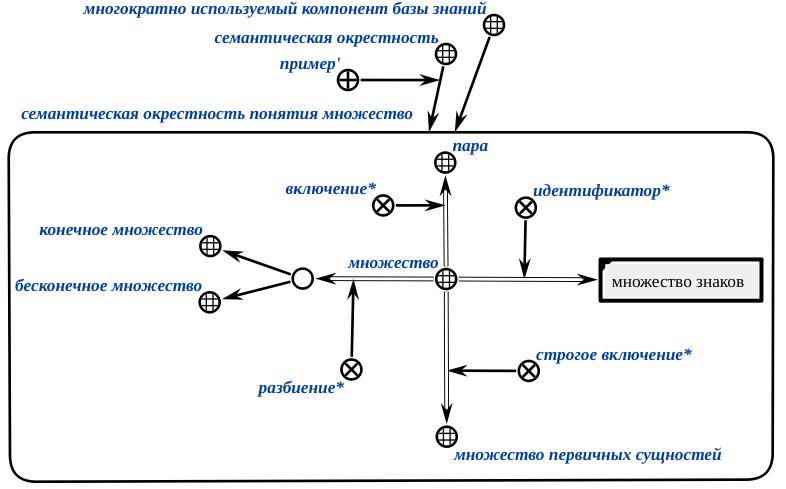
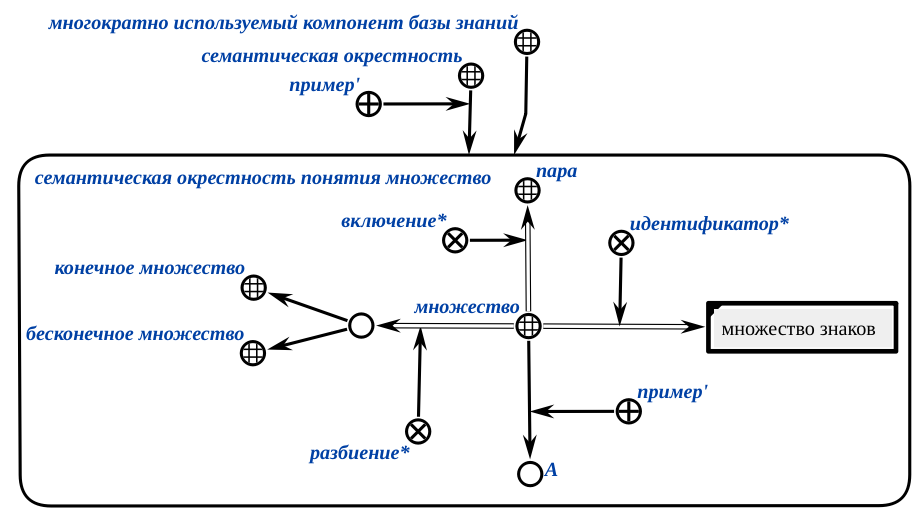
component manager specification

Changed region(s): [[0.0, 0.0, 1.0, 1.0]]

diff --git a/author/part5/chapter_library.tex b/author/part5/chapter_library.tex
@@ -1,15 +1,15 @@
 \chapter{Комплексная библиотека многократно используемых семантически совместимых компонентов ostis-систем}
-\chapauthortoc{Орлов М.К.\\Шункевич Д.В.}
+\chapauthortoc{Орлов М.~К.\\Шункевич Д.~В.\\Ковалёв М.~В.\\Садовский М.~Е.\\Загорский А.~Г.\\Банцевич К.~А.}
 \label{chapter_library}
 
 \begin{SCn}
 \begin{scnrelfromlist}{автор}
-	\scnitem{Орлов М.К.}
-	\scnitem{Шункевич Д.В.}
-	\scnitem{Ковалёв М.В.}
-	\scnitem{Садовский М.Е.}
-	\scnitem{Загорский А.Г.}
-	\scnitem{Банцевич К.А.}
+	\scnitem{Орлов М.~К.}
+	\scnitem{Шункевич Д.~В.}
+	\scnitem{Ковалёв М.~В.}
+	\scnitem{Садовский М.~Е.}
+	\scnitem{Загорский А.~Г.}
+	\scnitem{Банцевич К.~А.}
 \end{scnrelfromlist}
 \end{SCn}
 
@@ -23,6 +23,19 @@
 
 \begin{SCn}
 \scntext{аннотация}{Важнейшим этапом эволюции любой технологии является переход к компонентному проектированию на основе постоянно пополняемой библиотеки многократно используемых компонентов. Идея библиотеки компонентов не нова, но семантическая мощность \textbf{\textit{Библиотеки OSTIS}} значительно выше аналогов за счет того, что подавляющее большинство компонентов библиотеки --- компоненты базы знаний, представленные на унифицированном языке смыслового представления знаний (\textit{SC-коде}). Таким образом, в Библиотеке OSTIS обеспечивается высокий уровень семантической совместимости компонентов, что приводит к высокому уровню семантической совместимости \textit{ostis-систем}, использующих комплексную библиотеку многократно используемых семантически совместимых компонентов ostis-систем.}
+\end{SCn}
+
+\bigskip
+
+\begin{SCn}
+	\begin{scnrelfromlist}{подраздел}
+		\scnitem{\ref{ostis_library_introduction}~\nameref{ostis_library_introduction}}
+		\scnitem{\ref{ostis_library_analysis}~\nameref{ostis_library_analysis}}
+		\scnitem{\ref{ostis_library_section}~\nameref{ostis_library_section}}
+		\scnitem{\ref{reusable_component_section}~\nameref{reusable_component_section}}
+		\scnitem{\ref{ostis_library_component_manager}~\nameref{ostis_library_component_manager}}
+		\scnitem{\ref{ostis_library_conclusion}~\nameref{ostis_library_conclusion}}
+	\end{scnrelfromlist}
 \end{SCn}
 
 \bigskip
@@ -68,19 +81,6 @@
 	\scnitem{\scncite{Prakash2022}}
 	\scnitem{\scncite{Memduhoglu2018}}
 	\scnitem{\scncite{Moskalenko2016}}
-\end{scnrelfromlist}
-\end{SCn}
-
-\bigskip
-
-\begin{SCn}
-\begin{scnrelfromlist}{подраздел}
-	\scnitem{\ref{ostis_library_introduction}~\nameref{ostis_library_introduction}}
-	\scnitem{\ref{ostis_library_analysis}~\nameref{ostis_library_analysis}}
-	\scnitem{\ref{ostis_library_section}~\nameref{ostis_library_section}}
-	\scnitem{\ref{reusable_component_section}~\nameref{reusable_component_section}}
-	\scnitem{\ref{ostis_library_component_manager}~\nameref{ostis_library_component_manager}}
-	\scnitem{\ref{ostis_library_conclusion}~\nameref{ostis_library_conclusion}}
 \end{scnrelfromlist}
 \end{SCn}
 
@@ -137,6 +137,9 @@
 		\scnfileitem{Наличие онтологии компонентного проектирования интеллектуальных компьютерных систем, включающую (1) описание методов компонентного проектирования, (2) модель библиотеки многократно используемых компонентов, (3) модель спецификации многократно используемых компонентов, (4) полную классификацию многократно используемых компонентов, (5) описание средств взаимодействия разрабатываемой интеллектуальной компьютерной системы с библиотеками многократно используемых компонентов.}
 		\scnfileitem{Наличие библиотек многократно используемых компонентов интеллектуальных компьютерных систем, включающих спецификации компонентов.}
 		\scnfileitem{Наличие средств взаимодействия разрабатываемой интеллектуальной компьютерной системы с библиотеками многократно используемых компонентов для установки любых видов компонентов и управления ими в создаваемой системе.}
+		\begin{scnindent}
+			\scnnote{Под установкой компонента понимается его транспортировка в систему (копирование sc-элементов и/или скачивание файлов компонента), а также выполнение вспомогательных действий для того, чтобы компонент мог функционировать в создаваемой системе.}
+		\end{scnindent}
 	\end{scneqtoset}
 \end{scnindent}
 \end{SCn}
@@ -291,8 +294,10 @@
 
 \begin{SCn}
 	\scnheader{библиотека многократно используемых компонентов ostis-систем}
-	\scntext{сокращение}{библиотека компонентов ostis-систем}
+	\scntext{часто используемый sc-идентификатор}{библиотека компонентов ostis-систем}
+	\scntext{часто используемый sc-идентификатор}{библиотека компонентов}
 	\scnidtf{комплексная библиотека многократно используемых семантически совместимых компонентов ostis-систем}
+	\scnidtf{библиотека типовых компонентов ostis-систем}
 	\scnidtf{библиотека многократно используемых компонентов OSTIS}
 	\scnidtf{библиотека повторно используемых компонентов OSTIS}
 	\scnidtf{библиотека intelligent property компонентов ostis-систем}
@@ -301,18 +306,16 @@
 	\end{scnindent}
 	\scnhaselementrole{типичный пример}{\scnkeyword{Библиотека OSTIS}}
 	\begin{scnindent}
+		\scnidtf{Распределенная библиотека типовых (многократно используемых) компонентов ostis-систем}
 		\scnidtf{Библиотека многократно используемых компонентов ostis-систем в составе Метасистемы OSTIS}
 		\scnidtf{Библиотека Метасистемы OSTIS}
 	\end{scnindent}
 	\begin{scnreltoset}{объединение}
-		\scnitem{библиотека многократно используемых компонентов баз знаний}
-		\scnitem{библиотека многократно используемых компонентов решателей задач}
-		\scnitem{библиотека многократно используемых компонентов пользовательских интерфейсов}
+		\scnitem{библиотека многократно используемых компонентов баз знаний (см. Параграф \ref{sc_kb_design_components}~\nameref{sc_kb_design_components})}
+		\scnitem{библиотека многократно используемых компонентов решателей задач (см. Параграф \ref{ps_components_section}~\nameref{ps_components_section})}
+		\scnitem{библиотека многократно используемых компонентов пользовательских интерфейсов (см. Параграф \ref{sec_reusable_UI_components}~\nameref{sec_reusable_UI_components})}
 		\scnitem{библиотека встраиваемых ostis-систем}
-		\scnitem{библиотека шаблонов типовых компонентов ostis-систем}
 		\scnitem{библиотека ostis-платформ}
-		\scnitem{библиотека реализаций sc-памяти}
-		\scnitem{библиотека стратегий решения задач}
 	\end{scnreltoset}
 \end{SCn}
 
@@ -423,6 +426,7 @@
 
 \begin{SCn}
 	\scnheader{многократно используемый компонент ostis-систем}
+	\scnidtf{типовой компонент ostis-систем}
 	\scnidtf{повторно используемый компонент ostis-систем}
 	\scnidtf{многократно используемый компонент OSTIS}
 	\scnidtf{ip-компонент ostis-систем}
@@ -482,12 +486,21 @@
 \end{scnrelfromset}
 \end{SCn}	
 
+На рисунке \nameref{fig:set_neighbourhood} приведён фрагмент многократно используемого компонента базы знаний на примере семантической окрестности понятия \textit{множество}.
+
 \begin{figure}[H]
 	\includegraphics[scale=0.6]{author/part5/figures/set_neighbourhood.png}
 	\caption{Пример многократно используемого компонента базы знаний}
 	\label{fig:set_neighbourhood}
 \end{figure}
 
+На рисунке \nameref{fig:relation_template} приведён фрагмент шаблона многократно используемого компонента ostis-систем на примере описания семантической окрестности отношения.
+
+\begin{figure}[H]
+	\includegraphics[scale=0.6]{author/part5/figures/relation_template.png}
+	\caption{Пример шаблона семантической окрестности отношения}
+	\label{fig:relation_template}
+\end{figure}
 
 Для компонентов баз знаний важнейшим признаком классификации многократно используемых компонентов является \textbf{\textit{вид используемых знаний}}. Для компонентов решателя задач --- \textbf{\textit{модель решения задач}}. Для компонентов интерфейса --- \textbf{\textit{вид интерфейса}} в соответствии с классификацией компонентов пользовательских интерфейсов.
 
@@ -621,7 +634,7 @@
 Каждый \textit{многократно используемый компонент ostis-систем} должен быть специфицирован в рамках библиотеки (см. \scncite{Davydenko2013}). Данные спецификации включают в себя основные знания о компоненте, которые позволяют обеспечить построение полной иерархии компонентов и их зависимостей, а также обеспечивают \underline{беспрепятственную} интеграцию компонентов в дочерние ostis-системы. Для спецификации компонента используются, как отношения, так и классы компонента.
 
 % Параметры формализовать
-Чтобы многократно используемый компонент мог быть принят в библиотеку, нужно специфицировать его, используя отношения из класса \textit{необходимое для установки отношение, специфицирующее многократно используемый компонент ostis-систем}. В то же время отношения класса \textit{необязательное для установки отношение, специфицирующее многократно используемый компонент ostis-систем} помогают лучше понять суть компонента, упрощает поиск, но не является обязательным для того, чтобы компонент мог быть установлен в ostis-систему. Спецификация многократно используемого компонента ostis-систем также включает класс (тип) компонента. Указание класса \textit{многократно используемый компонент ostis-систем} является обязательным. Сам многократно используемый компонент в рамках спецификации является \textit{ключевым sc-элементом}, а также может иметь множество своих ключевых sc-элементов. Для уточнения типа компонента могут использоваться другие классы, например дата публикации первой и последней версии компонента, качественно-количественные характеристики, какие как уровень семантической совместимости компонентов, сложность реализации компонента, уровень производительности компонента (для программ можно использовать O-нотацию), количество sc-элементов, входящих в состав многократно используемого компонента, количество ключевых узлов компонента, рейтинг компонента в рамках Экосистемы OSTIS, количество скачиваний компонента и другие (см. \scncite{Davydenko2013}). Параметр \textit{лицензия многократно используемого компонента} используется для обозначения условий использования и распространения компонента. По умолчанию лицензия компонента открытая, если не указано иное.
+Чтобы многократно используемый компонент мог быть принят в библиотеку, нужно специфицировать его, используя отношения класса \textit{необходимое для установки отношение, специфицирующее многократно используемый компонент ostis-систем}. Здесь описана спецификация, общая для любых типов компонентов, однако в зависимости от типа компонента, спецификация может расширяться (см. Параграфы \ref{sc_kb_design_components}~\nameref{sc_kb_design_components}, \ref{ps_components_section}~\nameref{ps_components_section}, \ref{sec_reusable_UI_components}~\nameref{sec_reusable_UI_components}). Отношения класса \textit{необязательное для установки отношение, специфицирующее многократно используемый компонент ostis-систем} помогают лучше понять суть компонента, упрощает поиск, но не является обязательным для того, чтобы компонент мог быть установлен в ostis-систему. Спецификация многократно используемого компонента ostis-систем также включает класс (тип) компонента. Указание класса \textit{многократно используемый компонент ostis-систем} является обязательным. Сам многократно используемый компонент в рамках спецификации является \textit{ключевым sc-элементом}, а также может иметь множество своих ключевых sc-элементов. Для уточнения типа компонента могут использоваться другие классы, например дата публикации первой и последней версии компонента, качественно-количественные характеристики, какие как уровень семантической совместимости компонентов, сложность реализации компонента, уровень производительности компонента (для программ можно использовать O-нотацию), количество sc-элементов, входящих в состав многократно используемого компонента, количество ключевых узлов компонента, рейтинг компонента в рамках Экосистемы OSTIS, количество скачиваний компонента и другие (см. \scncite{Davydenko2013}). Параметр \textit{лицензия многократно используемого компонента} используется для обозначения условий использования и распространения компонента. По умолчанию лицензия компонента открытая, если не указано иное.
 
 \begin{SCn}
 \scnheader{отношение, специфицирующее многократно используемый компонент ostis-систем\scnsupergroupsign}
@@ -683,7 +696,7 @@
 
 Спецификация неатомарного многократно используемого компонента должна содержать информацию о том, из каких компонентов он состоит, используя отношение \textit{декомпозиция*}. При этом sc-структура, обозначающая неатомарный компонент не обязана содержать все sc-элементы компонентов, на которые она декомпозируется, достаточно, чтобы неатомарному компоненту принадлежали знаки всех тех компонентов, из которых он состоит (должно быть полное перечисление составных компонентов).
 
-На рисунке \nameref{fig:component_optional_specification_example} изображена необязательная часть спецификации, необходимой для установки sc-агента поиска кратчайшего пути в графе. Полная спецификация компонента является результатом объединения обязательной и необязательной частей.
+На рисунке \nameref{fig:component_optional_specification_example} изображена необязательная часть спецификации, необходимой для установки sc-агента поиска кратчайшего пути в графе. Полная спецификация компонента является результатом объединения обязательной и необязательной частей. Другие примеры спецификаций многократно используемых компонентов ostis-систем описаны в Параграфе \ref{gis_components}~\nameref{gis_components}.
 
 \begin{figure}[H]
 	\includegraphics[scale=1.0]{author/part5/figures/component_optional_specification_example.png}
@@ -706,13 +719,14 @@
 
 \begin{SCn}
 \begin{scnrelfromlist}{ключевое знание}
-	\scnitem{Функциональные возможности менеджера многократно используемых компонентов ostis-систем}
+	\scnitem{минимальные функциональные возможности менеджера компонентов}
+	\scnitem{расширенные функциональные возможности менеджера компонентов}
 \end{scnrelfromlist}
 \end{SCn}
 
 \bigskip
 
-менеджер многократно используемых компонентов ostis-систем --- подсистема ostis-системы, с помощью которой проиходит взаимодействие с библиотекой компонентов ostis-систем.
+\textit{менеджер многократно используемых компонентов ostis-систем} --- подсистема ostis-системы, с помощью которой происходит взаимодействие с библиотекой компонентов ostis-систем.
 
 \begin{SCn}
 \scnheader{менеджер многократно используемых компонентов ostis-систем}
@@ -725,38 +739,62 @@
 \end{scnrelfromset}
 \end{SCn}
 
-База знаний менеджера компонентов содержит все те знания, которые необходимы для установки многократно используемого компонента в дочернюю ostis-систему. К таким знаниям относятся знания о спецификации многократно используемых компонентов, методы установки компонентов, знание о  библиотеках ostis-систем, с которыми происходит взаимодействие. Решатель задач менеджера компонентов взаимодействует с библиотекой ostis-систем и позволяет установить и интегрировать многократно используемые компоненты в дочернюю ostis-систему, также выполнять поиск, обновление, публикацию, удаление компонентов. Интерфейс менеджера многократно используемых компонентов обеспечивает удобное для пользователя и других систем использование менеджера компонентов.
+База знаний менеджера компонентов содержит все те знания, которые необходимы для установки многократно используемого компонента в дочернюю ostis-систему. К таким знаниям относятся знания о спецификации многократно используемых компонентов, методы установки компонентов, знание о  библиотеках ostis-систем, с которыми происходит взаимодействие. Решатель задач менеджера компонентов взаимодействует с библиотекой ostis-систем и позволяет установить и интегрировать многократно используемые компоненты в дочернюю ostis-систему, также выполнять поиск, обновление, публикацию, удаление компонентов и другие операции с ними. Интерфейс менеджера многократно используемых компонентов обеспечивает удобное для пользователя и других систем использование менеджера компонентов.
 
-Функциональные возможности менеджера компонентов ostis-систем следующие:
-\begin{textitemize}
-	\item \textbf{Поиск многократно используемых компонентов ostis-систем}. Множество возможных критериев поиска соответствует спецификации многократно используемых компонентов. Такими критериями могут быть классы компонента, его авторы, идентификатор, фрагмент примечания, назначение, принадлежность какой-либо предметной области, вид знаний компонента и другие.
-	\item \textbf{Установка многократно используемого компонента ostis-систем}. Установка многократно используемого компонента происходит вне зависимости от типологии, способа установки и местоположения компонента. Необходимое условие для возможности установки многократно используемого компонента --- наличие \textbf{\textit{спецификации многократно используемого компонента ostis-систем}}. Перед установкой многократно используемого компонента в дочернюю систему необходимо разрешить все зависимости путём установки зависимых компонентов. После успешной установки компонента, в базе знаний дочерней системы генерируется информационная конструкция, обозначающая факт установки компонента в систему с помощью отношения \textit{установленные компоненты*}. После установки компонента в ostis-систему могут возникнуть противоречия в базе знаний, которые  устраняются с помощью средств обнаружения и анализа ошибок и противоречий в базе знаний ostis-системы.
-	\item \textbf{Спецификация многократно используемого компонента ostis-систем}. Менеджер компонентов позволяет специфицировать компоненты, входящие в состав библиотеки ostis-систем, а также специфицировать новые создаваемые компоненты, которые будут публиковаться в библиотеку ostis-систем. При этом спецификация может происходить как автоматически, так вручную. Например, менеджер компонентов может обновить спецификацию используемого компонента в соответствии с тем, в какие новые ostis-системы его установили, обновление спецификации авторства компонента при его редактировании в библиотеке ostis-систем, спецификация ошибок, выявленных в процессе эксплуатации компонента и так далее.
-	\item \textbf{Формирование многократно используемого компонента ostis-систем по шаблону с заданными параметрами}.
-	\item \textbf{Публикация многократно используемого компонента ostis-систем в библиотеку ostis-систем}. При публикации компонента в библиотеку ostis-систем происходит верификация на основе спецификации компонента. Также существует возможность обновления версии опубликованного компонента сообществом его разработчиков.
-	\item \textbf{Обновление установленного многократно используемого компонента ostis-систем}
-	\item \textbf{Удаление установленного многократно используемого компонента}. Как и в случае установки после удаления многократно используемого компонента из ostis-системы в базе знаний системы устанавливается факт удаления компонента. Эта информация является важной частью \underline{истории эксплуатации} ostis-системы.
-	\item \textbf{Редактирование многократно используемого компонента в библиотеке ostis-систем}.
-	\item \textbf{Добавление и удаление отслеживаемых ostis-системой библиотек}. Менеджер компонентов содержит информацию о множестве источников для установки компонентов, перечень которых можно дополнять вручную. По умолчанию менеджер компонентов отслеживает Библиотеку Метасистемы OSTIS, однако можно создавать и добавлять дополнительные библиотеки ostis-систем.
-	\item \textbf{Сравнение} многократно используемых компонентов ostis-систем.
-\end{textitemize}
+\textit{менеджер многократно используемых компонентов ostis-систем} как минимум должен обеспечивать следующие функциональные возможности:
 
-% Включение компонента в дочернюю sc-систему в самом общем случае состоит из следующих этапов:
-% - поиск подходящего компонента (или набора компонентов) во множестве библиотек, входящих в состав IMS. Для облегчения задачи поиска могут быть реализованы специализированные поисковые агенты. В любом случае, поиск и выделение компонента будет осуществляться на основе спецификации компонента. Данный этап с точки зрения пользователя не зависит от типа компонента и особенностей его реализации. Конкретные действия на следующих этапах сильно зависят от реализации и типа компонента и будут более детально описаны при рассмотрении подклассов многократно используемых компонентов OSTIS;
+\begin{SCn}
+\scnheader{менеджер многократно используемых компонентов ostis-систем}
+\scnrelfrom{минимальные функциональные возможности}{минимальные функциональные возможности менеджера компонентов}
+\begin{scnindent}
+\begin{scneqtoset}
+	\scnfileitem{\textbf{Поиск многократно используемых компонентов ostis-систем.} Множество возможных критериев поиска соответствует спецификации многократно используемых компонентов. Такими критериями могут быть классы компонента, его авторы, идентификатор, фрагмент примечания, назначение, принадлежность какой-либо предметной области, вид знаний компонента и другие.}
+	\scnfileitem{\textbf{Установка многократно используемого компонента ostis-систем.} Установка многократно используемого компонента происходит вне зависимости от типологии, способа установки и местоположения компонента. Необходимое условие для возможности установки многократно используемого компонента --- наличие \textbf{\textit{спецификации многократно используемого компонента ostis-систем}}. Перед установкой многократно используемого компонента в дочернюю систему необходимо установить все зависимые компоненты. После успешной установки компонента, в базе знаний дочерней системы генерируется информационная конструкция, обозначающая факт установки компонента в систему с помощью отношения \textit{установленные компоненты*}.}
+	\scnfileitem{\textbf{Добавление и удаление отслеживаемых менеджером компонентов библиотек.} Менеджер компонентов содержит информацию о множестве источников для установки компонентов, перечень которых можно дополнять. По умолчанию менеджер компонентов отслеживает Библиотеку Метасистемы OSTIS, однако можно создавать и добавлять дополнительные библиотеки ostis-систем.}
+\end{scneqtoset}
+\end{scnindent}
+\end{SCn}
 
-% - выделение компонента (или набора компонентов) в рамках IMS в виде, удобном для транспортировки в дочернюю sc-систему (при необходимости – создание физической копии компонента);
+Используя минимальные функциональные возможности менеджер компонентов может установить компоненты, которые будут расширять его же функционал. Компоненты, реализующие расширенный функционал менеджера компонентов являются частью \textit{Библиотеки OSTIS}. К расширенному функционалу относится:
 
-%- транспортировка выделенного компонента в дочернюю sc-систему;
+\begin{SCn}
+\scnheader{менеджер многократно используемых компонентов ostis-систем}
+\scnrelfrom{расширенные функциональные возможности}{расширенные функциональные возможности менеджера компонентов}
+\begin{scnindent}
+	\begin{scneqtoset}
+		\scnfileitem{\textbf{Спецификация} многократно используемого компонента ostis-систем. Менеджер компонентов позволяет специфицировать компоненты, входящие в состав библиотеки ostis-систем, а также специфицировать новые создаваемые компоненты, которые будут публиковаться в библиотеку ostis-систем. При этом спецификация может происходить как автоматически, так вручную. Например, менеджер компонентов может обновить спецификацию используемого компонента в соответствии с тем, в какие новые ostis-системы его установили, обновление спецификации авторства компонента при его редактировании в библиотеке ostis-систем, спецификация ошибок, выявленных в процессе эксплуатации компонента и так далее.}
+		\scnfileitem{\textbf{Формирование} многократно используемого компонента ostis-систем по шаблону с заданными параметрами. При установке шаблона многократно используемого компонента ostis-систем менеджер компонентов позволяет сформировать по нему конкретный компонент. Для этого пользователю предлагается определить значения всех sc-переменных в шаблоне для формирования конкретного компонента из некоторой предметной области. Например, для формирования многократно используемого компонента базы знаний, представляющего собой семантическую окрестность некоторого отношения (рисунок \nameref{fig:relation_template}), нужно определить значения всех переменных, кроме переменной, являющейся ключевым sc-элементом данной структуры.}
+		\scnfileitem{\textbf{Публикация} многократно используемого компонента ostis-систем в библиотеку ostis-систем. При публикации компонента в библиотеку ostis-систем происходит верификация на основе спецификации компонента. Публикация компонента может сопровождаться сборкой неатомарного компонента из существующих атомарных. Также существует возможность обновления версии опубликованного компонента сообществом его разработчиков.}
+		\scnfileitem{\textbf{Обновление} установленного многократно используемого компонента ostis-систем.}
+		\scnfileitem{\textbf{Удаление} установленного многократно используемого компонента. Как и в случае установки после удаления многократно используемого компонента из ostis-системы в базе знаний системы устанавливается факт удаления компонента. Эта информация является важной частью \underline{истории эксплуатации} ostis-системы.}
+		\scnfileitem{\textbf{Редактирование} многократно используемого компонента в библиотеке ostis-систем.}
+		\scnfileitem{\textbf{Сравнение} многократно используемых компонентов ostis-систем.}
+	\end{scneqtoset}
+\end{scnindent}
+\end{SCn}
 
-% - интеграция компонента в дочернюю scсистему. Если в системе уже использовалась более старая версия компонента, то необходимо произвести либо локальное обновление, либо полную замену устаревшей версии компонента. Дальнейший процесс интеграции зависит от типа компонента, например, в случае добавления нового sc-агента он должен быть помечен как активный sc-агент и т.п.
+Для того, чтобы создать новую ostis-систему "с нуля"{}, используя \textit{ostis-платформу} (см. Параграф \ref{sec_interpreter_ostis_platform}~\nameref{sec_interpreter_ostis_platform}), необходимо установить некоторый \textit{Программный вариант реализации ostis-платформы} (см. Главу \ref{chapter_soft_platform}~\nameref{chapter_soft_platform}) с помощью сторонних средств. Такими средствами могут быть (1) хранилища исходного кода платформы, например, облачные хранилища, такие как GitHub репозиторий, с соответствующим набором инструкций по установке платформы или (2) средства установки заранее скомпилированной программной реализации платформы, например, средство установки программного обеспечения apt. Далее установка многократно используемых компонентов в ostis-систему осуществляется с помощью менеджера компонентов. Компонент находится в некотором хранилище --- (1) библиотеке компонентов ostis-систем или (2) в виде файлов на некотором облачном хранилище. В случае, когда компонент хранится в библиотеке, для его установки необходимо скопировать все sc-элементы, которые представляют собой компонент, в дочернюю ostis-систему. В случае, когда компонент хранится в виде файлов на облачном хранилище, необходимо скачать файлы компонента и установить их в соответствии со спецификацией. Адреса хранилищ спецификаций компонентов должны храниться в базе знаний менеджера компонентов, чтобы иметь доступ к спецификациям компонентов для их последующего использования (поиска, установки и так далее). На рисунке \nameref{fig:specification_storage_addresses} приведён пример фрагмента базы знаний менеджера компонентов, который описывает то, где хранятся спецификации компонентов, доступных для установки. Такое хранилище представляет собой множество, состоящее из двух множеств: (1) множество адресов спецификаций компонентов и (2) множество адресов спецификаций других хранилищ. Таким образом, образуется древовидная структура в соответствии с иерархией материнских ostis-систем и соответствующих им библиотек.
 
-% Сказать как устанавливается шаблон компонента --- установление значений переменным происходит в отдельной подсистеме
+\begin{figure}[H]
+	\includegraphics[scale=0.5]{author/part5/figures/specification_storage_addresses.png}
+	\caption{Пример структуры хранилища адресов спецификаций компонентов}
+	\label{fig:specification_storage_addresses}
+\end{figure}
 
-% Агент сборки многократно используемого компонента.
+Если указать адрес корня дерева хранилищ адресов спецификаций, то менеджер компонентов получает доступ ко всем спецификациям дочерних хранилищ. При обработке такого дерева спецификаций менеджер компонентов погружает в sc-память спецификации компонентов, доступных для установки, однако не сами эти компоненты.
 
-% Установка компонентов "многократно используемый компонент, хранящийся в виде sc-структуры" и в виде внешних файлов.
+\textit{менеджер многократно используемых компонентов ostis-систем} является необязательной подсистемой ostis-платформы. Однако система, имеющая менеджер компонентов, может устанавливать компоненты не только сама в себя, но и в другие системы при наличии доступа. Таким образом, одна система может заменить ostis-платформу другой системы, оставив при этом \textit{sc-модель кибернетической системы} (см. Параграф \ref{sec_interpreter_ostis_impl}~\nameref{sec_interpreter_ostis_impl}). Таким же образом некоторая ostis-система может порождать другие ostis-системы, используя компонентный подход.
 
-%Для обеспечения возможности встраивания многократно используемых компонентов OSTIS в дочернюю систему, каждая такая система обязана иметь в своем составе средства, обеспечивающие интеграцию новых компонентов в систему и, при необходимости, удаление устаревших версий этих компонентов (или автоматического локального обновления компонентов до более новой версии).
+Включение компонента в дочернюю ostis-систему в общем случае состоит из следующих этапов:
+\begin{enumerate}
+	\item поиск подходящего компонента во множестве доступных библиотек;
+	\item выделение компонента в виде, удобном для транспортировки в дочернюю ostis-систему с указанием версии и модификации при необходимости (например, выбор доступного хранилища компонента, выбор оптимального варианта реализации компонента с учётом состава дочерней системы);
+	\item установка многократно используемого компонента и его зависимостей (с указанием версии и модификации при необходимости);
+	\item интеграция компонента в дочернюю систему;
+	\item поиск и устранение ошибок и противоречий в дочерней системе;
+\end{enumerate}
+
+Данный процесс с точки зрения пользователя не зависит от типа компонента и особенностей его реализации.
 
 \section*{Заключение Главы \ref{chapter_library}}
 \label{ostis_library_conclusion}

diff --git a/author/part7/chapter_gis.tex b/author/part7/chapter_gis.tex
@@ -8,6 +8,20 @@
 \section{Требования, предъявляемые к интеллектуальным геоинформационным системам нового поколения}
 \section{Систематизация задач, решаемых интеллектуальными геоинформационными системами}
 \section{Основные компоненты формальных онтологий, используемых в геоинформационных системах}
+\label{gis_components}
+
+\begin{figure}[H]
+	\includegraphics[scale=0.8]{author/part7/figures/gis_kb_component.png}
+	\caption{Пример многократно используемого компонента базы знаний геоинформационных ostis-систем}
+	\label{fig:gis_kb_component}
+\end{figure}
+
+\begin{figure}[H]
+	\includegraphics[scale=0.8]{author/part7/figures/gis_ps_component.png}
+	\caption{Пример многократно используемого компонента решателя задач геоинформационных ostis-систем}
+	\label{fig:gis_ps_component}
+\end{figure}
+
 \subsection{Геосемантические элементы: местоположение, топология, близость, ориентация, динамика}
 \subsection{Формализация пространственных отношений в геоинформационных системах}
 \section{Стратифицированная модель информационного пространства объектов местности}

diff --git a/author/part5.tex b/author/part5.tex
@@ -51,6 +51,14 @@
 \end{textitemize}
 
 В данной части рассматриваются методы и средства, позволяющие повысить качество и удобство проектирования современных интеллектуальных систем в соответствие с указанными принципами.
+
+\begin{scnrelfromlist}{подраздел}
+	\scnitem{Глава~\ref{chapter_library}~\nameref{chapter_library}}
+	\scnitem{Глава~\ref{chapter_kb_design}~\nameref{chapter_kb_design}}
+	\scnitem{Глава~\ref{chapter_ps_design}~\nameref{chapter_ps_design}}
+	\scnitem{Глава~\ref{chapter_ui_design}~\nameref{chapter_ui_design}}
+\end{scnrelfromlist}
+
 \end{partbacktext}
 
 \input{author/part5/chapter_library.tex}
